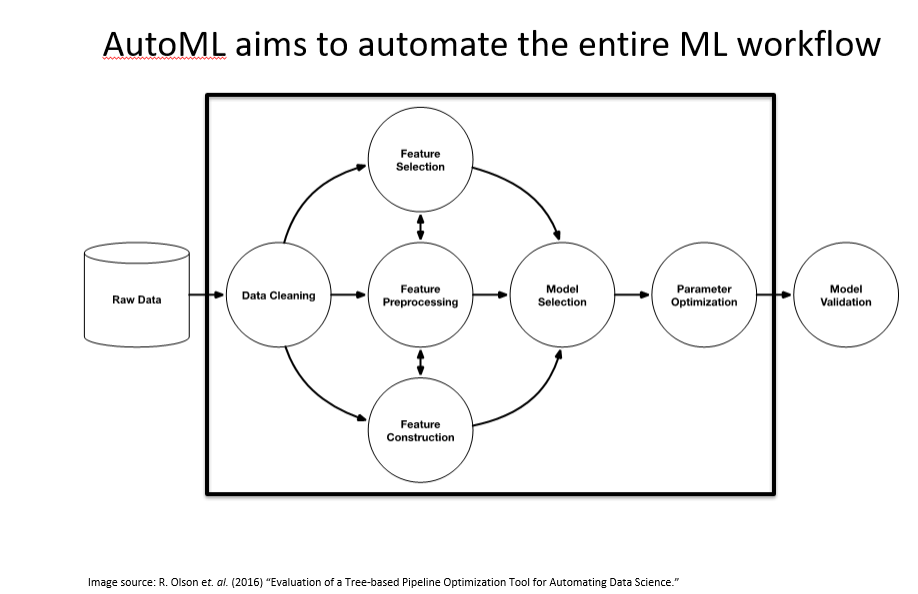
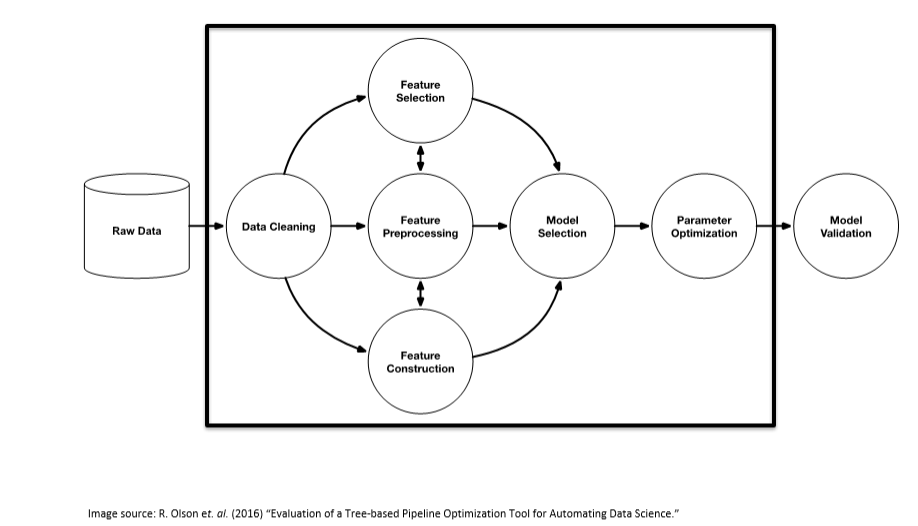
initial commit for about section

diff --git a/about.html b/about.html
@@ -5,8 +5,8 @@ description: This is what I do.
 background: '/img/bg-about.jpg'
 ---
 
-<p>Lorem ipsum dolor sit amet, consectetur adipisicing elit. Sed quisquam ut perspiciatis, repudiandae nulla animi iste vel, praesentium repellendus molestias aliquid consequatur, earum rem qui error voluptates eius enim consequuntur!</p>
+<p>I am a data science leader in tech space with 15+ years of Data Science & Analytics experience. My areas of expertise include and not limited to Sales & Marketing, Life Sciences and CPG industries.</p>
 
-<p>Lorem ipsum dolor sit amet, consectetur adipisicing elit. Ex alias, earum consectetur quia natus ducimus voluptate explicabo, hic porro reprehenderit, quasi? Tenetur ipsum distinctio laboriosam perspiciatis officiis dolore, architecto id.</p>
+<p>I graduated with Bachelor in Finance, Mathematics and Economics from Saint Elizabeth's College. My heart was set on working on Wall Street after graduation. However, the universe had other plans. I graduated during the Recession and jobs in finance industry were hard to come by, especially for recent college graduates. I ended up taking a job in Technical Data Management at Cadbury Adams. Over there I met a statistican who inspired me to go back to graduate school for a degree in Applied Mathematics and the rest in history. Since then I have worked at a diverse set of companies ranging from start ups to Fortune 500 companies.</p>
 
-<p class="mb-5">Lorem ipsum dolor sit amet, consectetur adipisicing elit. Totam inventore aspernatur repellendus incidunt adipisci modi voluptates recusandae iste eligendi, repudiandae corporis quod aut, optio! Explicabo quaerat unde voluptatem! Itaque, eum!</p>
+<p> In my spare time, I love to travel, garden and hike. </p>

diff --git a/_posts/2023-01-01-AutoML.md b/_posts/2023-01-01-AutoML.md
@@ -2,12 +2,13 @@
 layout: post
 title: "Automated Machine Learning"
 subtitle: "Current & Future state"
-background: ""
+background: '/img/posts/Automl/automl_background.jpg'
 ---
 
 ## What is AutoML?
 AutoML is one of the most popular sub field of machine learning right now. AutoML attempts to automate stages of Machine Learning. A regular ML workflow includes data prep, that is data cleaning, normalization/scaling, transformation, feature extraction & engineering, model training, hyperparameter optimization, model validation and deployment. AutoML tries to automate all these facets. In other words, AutoML speeds up the process of model build without having to try individual algorithm one by one. 
 
+_AutoML claims to automate the entire ML workflow_
 ![AutoML](/img/posts/Automl/Picture1.png)
 
 ## How is it used in the industry?
@@ -47,5 +48,4 @@ I think of AutoML as a productivity tool, something, that actually empowers data
 7. https://www.youtube.com/watch?v=QrJlj0VCHys
 8. <https://medium.com/@tunguz/six-levels-of-auto-ml-a277aa1f0f38>
 9. <https://opendatascience.com/automated-machine-learning-myth-versus-realty/>
-10. <https://blogs.oracle.com/ai-and-datascience/post/how-does-automl-impact-machine-learning#:~:text=AutoML%20automates%20common%20machine%20learning,into%20a%20one%2Dtouch%20solution>
 
